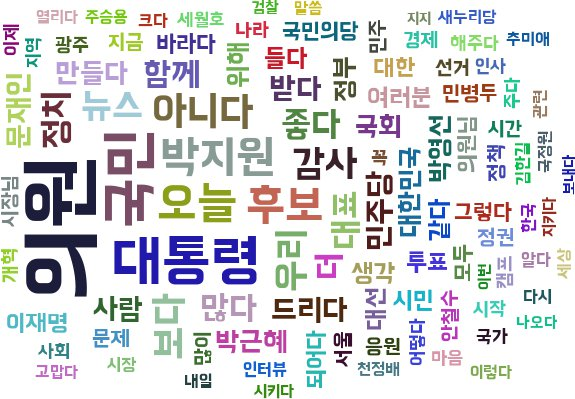
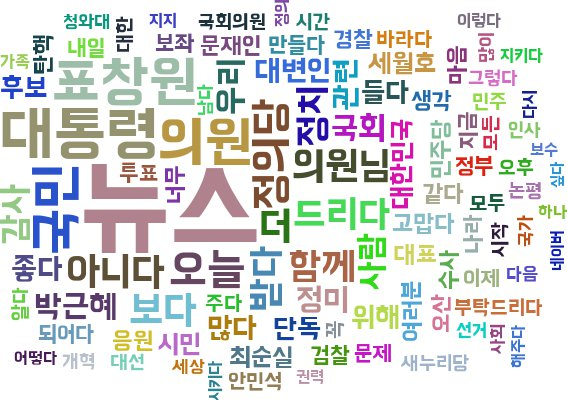
word2vec model 3가지 버전(전체학습, 진보학습, 보수학습)으로 생성하도록 수정

diff --git a/word2vec/word2vec_module.py b/word2vec/word2vec_module.py
@@ -3,7 +3,7 @@ import pandas as pd
 from konlpy.tag import Twitter
 import gensim
 from sklearn.decomposition import PCA
-
+import mysql.connector as msc
 
 def tokenize(doc):
     result = list()
@@ -14,41 +14,79 @@ def tokenize(doc):
     return result
 
 
-def make_model():
-    df = pd.read_csv('tweet.csv')
+def make_model(db_name_1, db_name_2 = None):
+    config = {'host': ***REMOVED***,
+              'port': ***REMOVED***,
+              'user': ***REMOVED***,
+              'password': ***REMOVED***,
+              'database': ***REMOVED***}
+    conn = msc.connect(**config)
+    qry = conn.cursor(buffered=True)
+
+    query = "SELECT Contents FROM %s" % db_name_1
+
+    qry.execute(query)
+    row = qry.fetchone()
 
     train_docs = list()
-    for sentence in df['Contents']:
+    while row is not None:
         try:
-            train_docs.append(tokenize(sentence))
+            train_docs.append(tokenize(row[0]))
         except Exception as e:
             print(e)
             continue
+        row = qry.fetchone()
+
+    if db_name_2 is not None:
+        query = "SELECT Contents FROM %s" % db_name_2
+
+        qry.execute(query)
+        row = qry.fetchone()
+
+        while row is not None:
+            try:
+                train_docs.append(tokenize(row[0]))
+            except Exception as e:
+                print(e)
+                continue
+            row = qry.fetchone()
 
     model = gensim.models.Word2Vec(train_docs, size=3)
 
-    model.save('wv.model')
+    if db_name_2 is None:
+        model.save('%s.model' % db_name_1)
+    else:
+        model.save('%s_%s.model' % (db_name_1, db_name_2))
 
-def vectorize(vocab):
-    model = gensim.models.Word2Vec.load('wv.model')
+
+
+def vectorize(vocab_list, db_name_1, db_name_2 = None):
+    if db_name_2 is None:
+        model = gensim.models.Word2Vec.load('%s.model' % db_name_1)
+    else:
+        model = gensim.models.Word2Vec.load('%s_%s.model' % (db_name_1, db_name_2))
+
     result = list()
-    for word in vocab:
+    for word in vocab_list:
         result.append(model[word[0]])
     return result
 
 
-def pca_projection(word2vec):
-    pca = PCA(n_components=3)
-
-    pca.fit(word2vec)
-    projected_vec = pca.transform(word2vec)
-
-    result = list()
-    for vec in projected_vec:
-        result.append([format(vec[0], '.4f'), format(vec[1], '.4f'), format(vec[2], '.4f')])
-
-    return result
+# Do not use
+# def pca_projection(word2vec):
+#     pca = PCA(n_components=3)
+#
+#     pca.fit(word2vec)
+#     projected_vec = pca.transform(word2vec)
+#
+#     result = list()
+#     for vec in projected_vec:
+#         result.append([format(vec[0], '.4f'), format(vec[1], '.4f'), format(vec[2], '.4f')])
+#
+#     return result
 
 
 if __name__ == '__main__':
-    make_model()
+    make_model("twitter_tweet")
+    make_model("twitter_reply")
+    make_model("twitter_tweet", "twitter_tweet")

diff --git a/NLP.py b/NLP.py
@@ -51,7 +51,7 @@ def get_frequent_words(people_list, table_list):
     sorted_list = sorted(freq_dict.items(), key=operator.itemgetter(1))
     sorted_list.reverse()
 
-    return sorted_list[:100]
+    return sorted_list[:150]
 
 
 def extract_frequent_words(mysql_query, is_repost=None):
